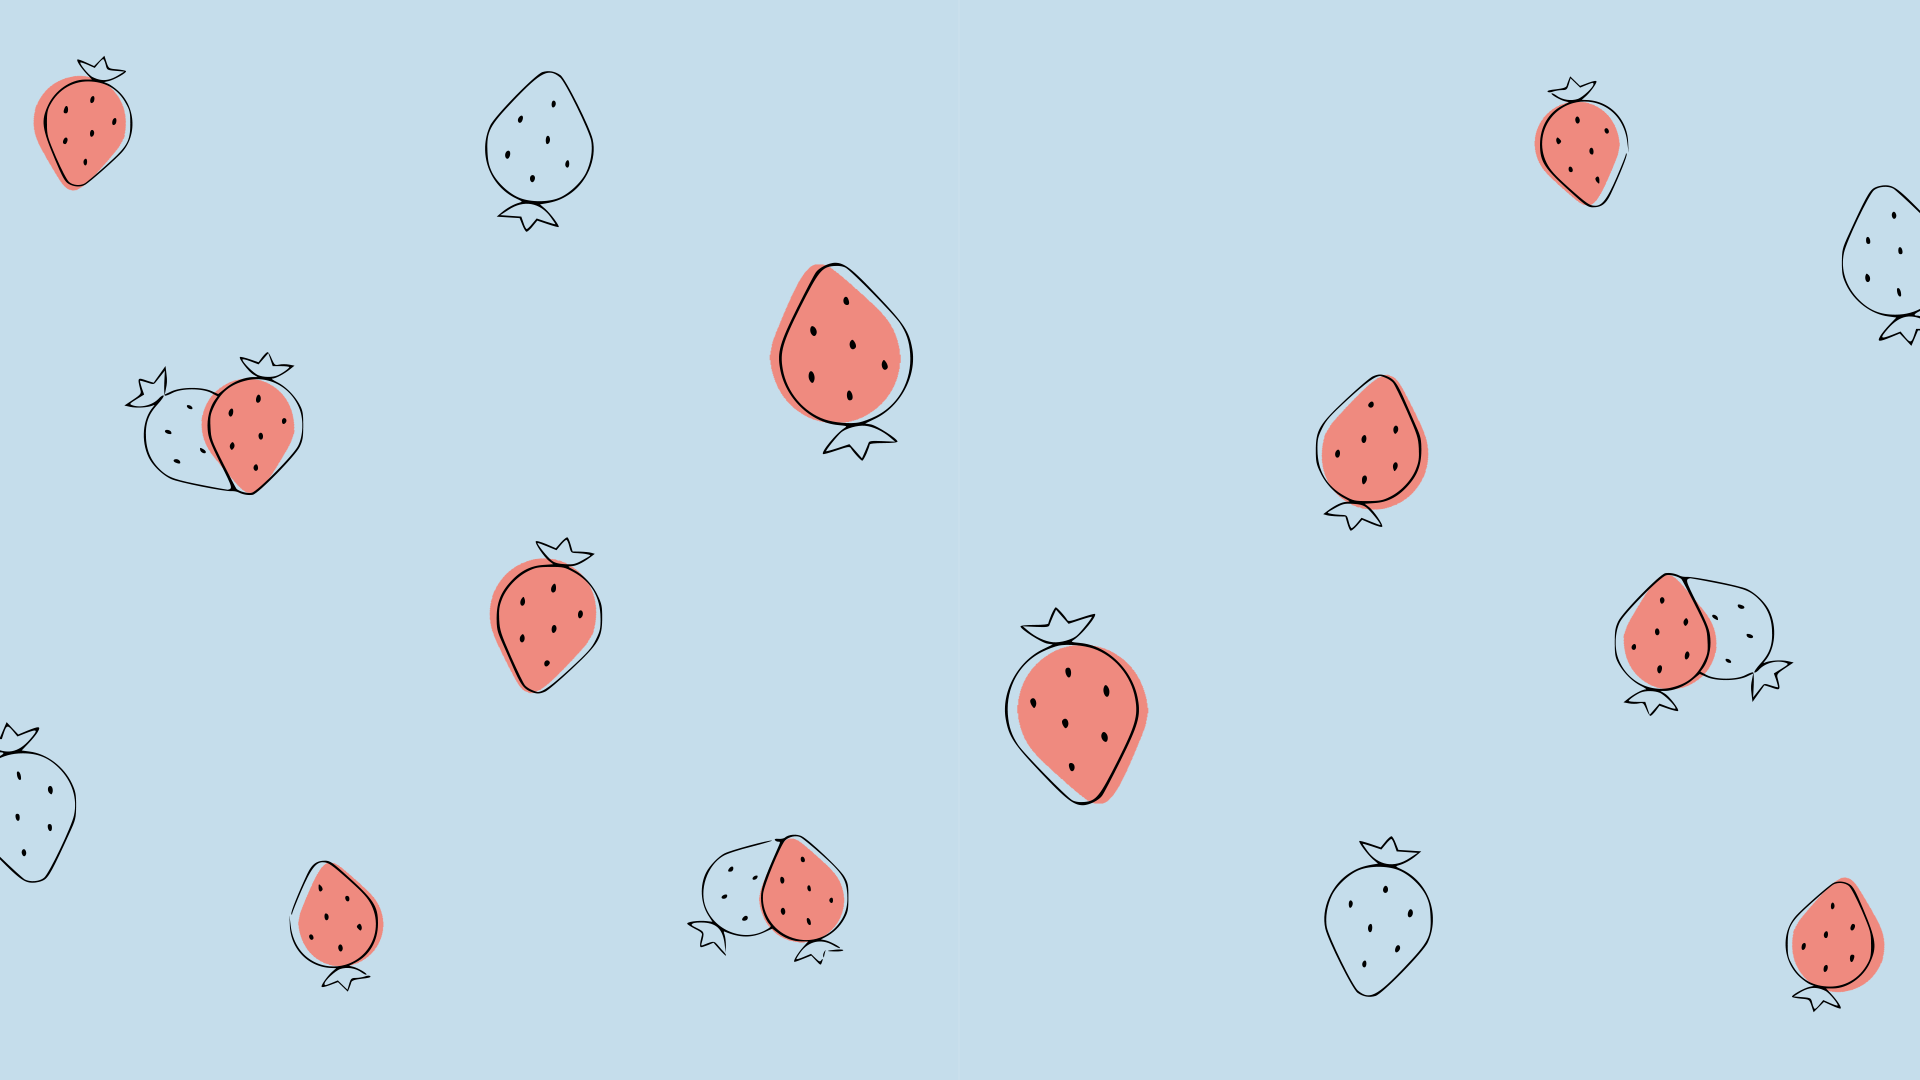
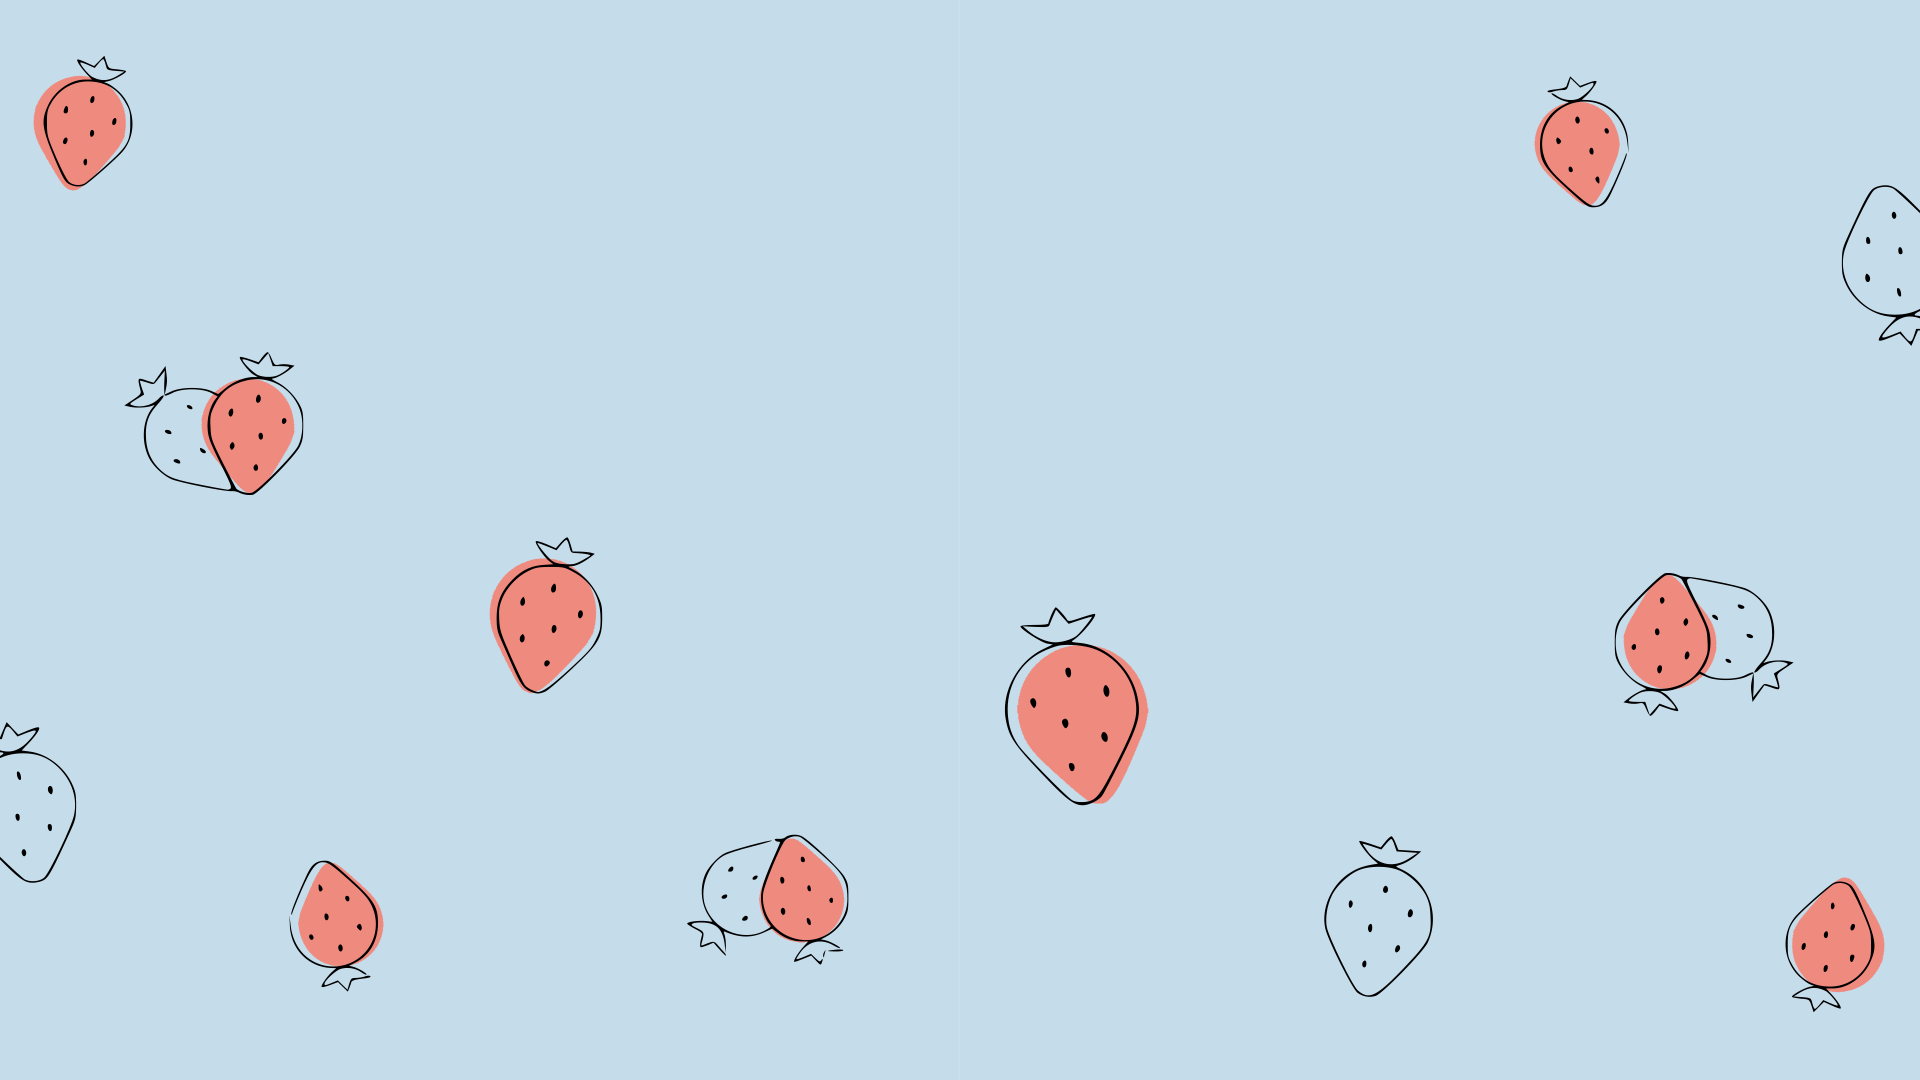
Fix main height and scrollbar in Layout and replaced background for Issue #13

Changed region(s): [[0.375, 0.2444, 0.4688, 0.4278], [0.6875, 0.3361, 0.75, 0.4889], [0.25, 0.1833, 0.2812, 0.2139]]

diff --git a/src/views/Layout.jsx b/src/views/Layout.jsx
@@ -1,28 +1,27 @@
 import { Outlet, NavLink } from 'react-router-dom';
 
 import './Layout.css';
-import { useState } from 'react';
-import logo from '../../public/img/logo.png';
+import logo from '../../public/img/logo-bluebg.png';
 
 export function Layout({ listToken }) {
 	return (
 		<>
-			<div className="Layout overflow-y-clip h-screen my-auto">
-				<header className="Layout-header flex justify-center items-center">
+			<div className="Layout flex flex-col overflow-y-clip h-screen my-auto">
+				<header className="Layout-header flex justify-center items-center mt-2">
 					<img
 						src={logo}
 						alt="BerryCart Logo"
 						className="h-20 md:h-64 relative z-10"
 					/>
 				</header>
-				<main className="Layout-main border rounded-2xl bg-white relative z-10 pb-10 max-h-[calc(100vh - 100px)]">
+				<main className="mx-auto w-[min(72ch,100%)] h-[65vh] overflow-y-auto border rounded-2xl bg-white relative z-10 pb-10">
 					<Outlet />
 				</main>
 				<div className='fixed right-0 bg-right bg-[url("../../public/img/berry-bg.png")] bg-cover inset-0 z-0' />
 				{/* remove navbar from Home when there is no list token */}
 				{listToken && (
-					<nav className="Nav bg-red-100 z-10">
-						<div className="flex justify-evenly gap-20">
+					<nav className="flex fixed py-4 bottom-0 w-full justify-center bg-red-100 z-10">
+						<div className="flex gap-20">
 							{/* this removes the Home navlink from the List and AddItem pages when there is a token assigned */}
 							{!listToken && (
 								<NavLink

diff --git a/src/views/Layout.css b/src/views/Layout.css
@@ -7,49 +7,13 @@
  *
  * @see: https://developer.mozilla.org/en-US/docs/Web/CSS/env
  */
-.Layout {
-	display: flex;
-	flex-direction: column;
-	height: 100dvh;
-}
 
+/* ensure the padding around elements remains reasonable on both small and large screens */
 .Layout > * {
 	padding-inline: min(5dvw, 3.2rem);
 }
 
-.Layout-header {
-	background-color: var(--color-bg);
-	padding-bottom: 0.5rem;
-	padding-top: max(env(safe-area-inset-top), 1rem);
-	text-align: center;
-}
-
-.Layout-header > h1 {
-	margin: 0;
-}
-
-.Layout-main {
-	margin: 0 auto;
-	padding-block: 0;
-	padding-block-end: 6.26rem;
-	width: min(72ch, 100%);
-}
-
-.Nav {
-	background-color: var(--color-bg);
-	bottom: 0;
-	display: flex;
-	flex-direction: row;
-	padding-bottom: max(env(safe-area-inset-bottom), 1rem);
-	padding-top: 1rem;
-	place-content: center;
-	position: absolute;
-	width: 100%;
-}
-
 .Nav-link {
-	--color-text: var(--color-accent);
-	color: var(--color-text);
 	font-size: 1.4em;
 	flex: 0 1 auto;
 	line-height: 1;

diff --git a/src/views/List.jsx b/src/views/List.jsx
@@ -40,7 +40,7 @@ export function List({ data, listToken }) {
 	};
 
 	return (
-		<div className="flex flex-col flex-grow gap-4 items-center text-center max-h-screen h-75vh overflow-y-auto">
+		<div className="flex flex-col flex-grow gap-4 items-center text-center max-h-screen">
 			<div className="pt-10">
 				<div>
 					<ToastContainer position="top-center" />
@@ -123,10 +123,7 @@ export function List({ data, listToken }) {
 					</ul>
 				</div>
 			)}
-			<div
-				aria-live="polite"
-				className="my-9 px-5 h-full overflow-auto pb-[30rem]"
-			>
+			<div aria-live="polite" className="my-9 px-5 h-full pb-[30rem]">
 				<ul>
 					{filterData.length > 0
 						? filterData.map((item) => (
